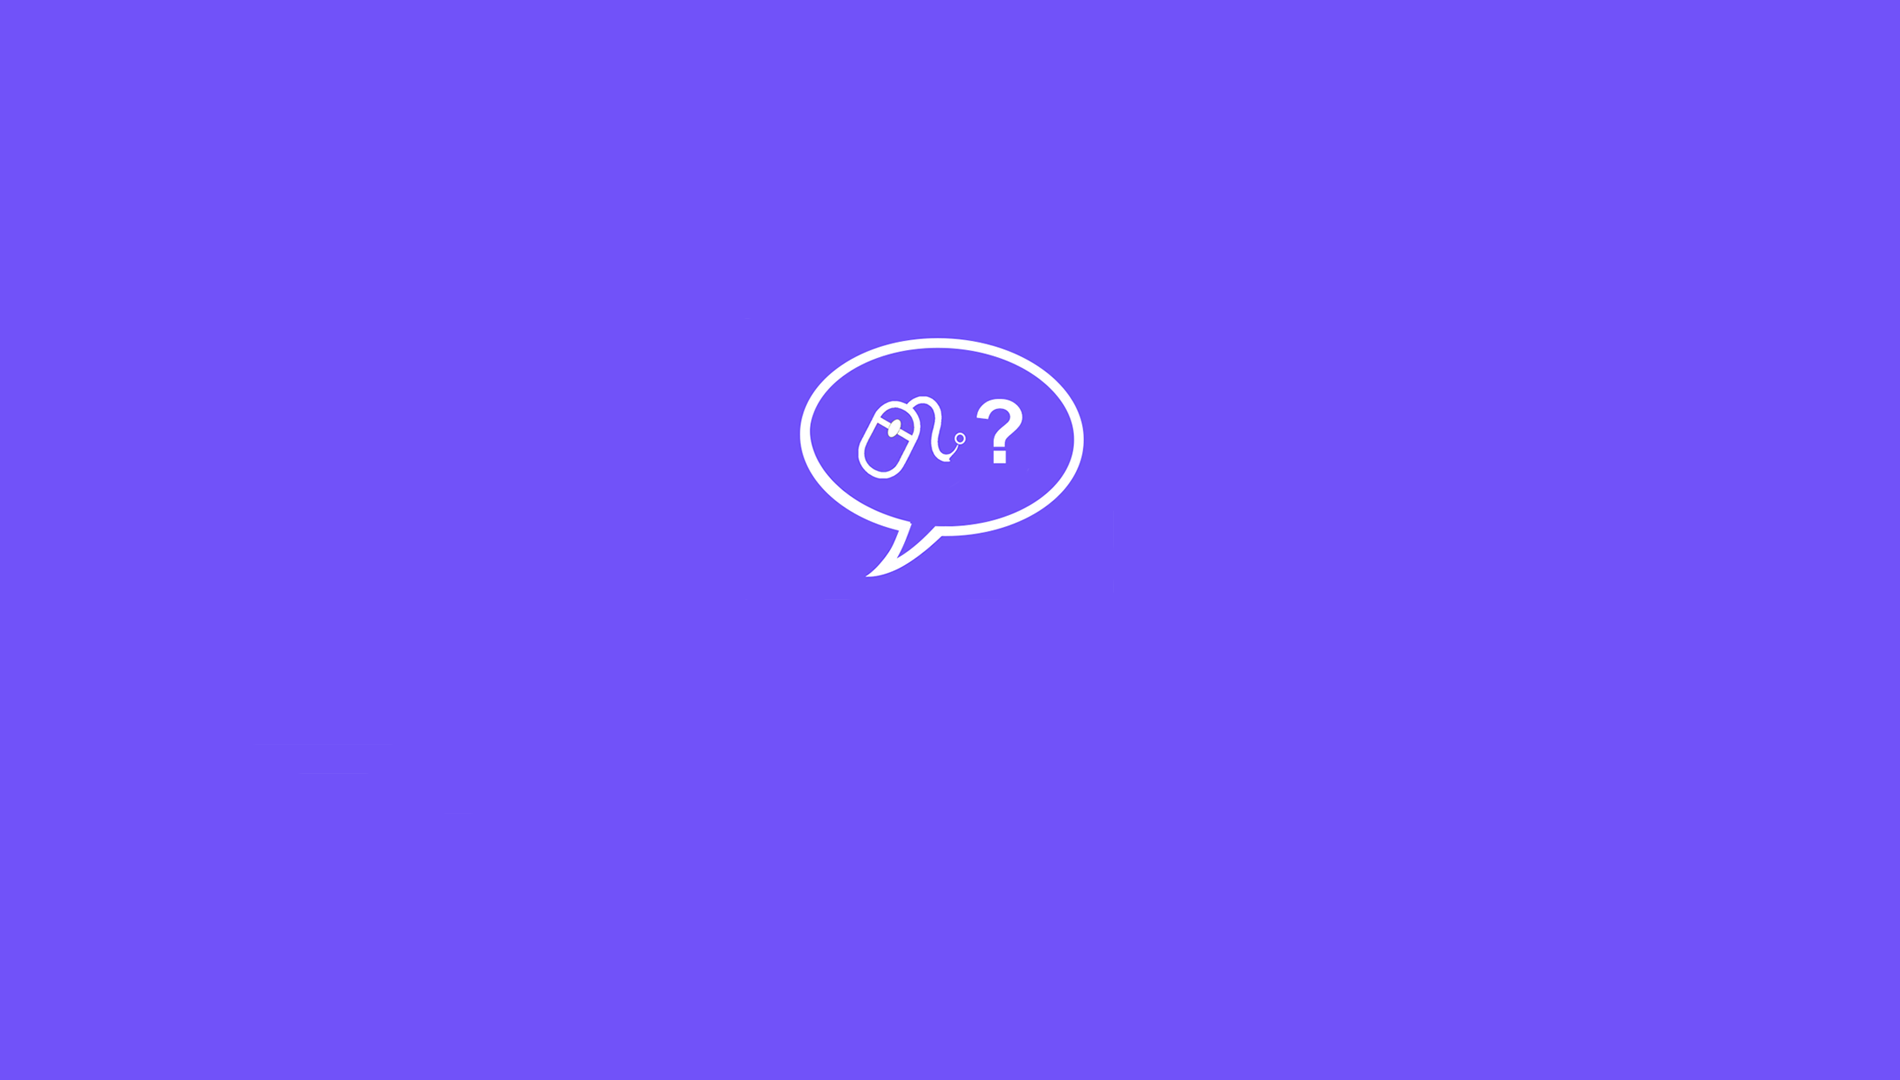
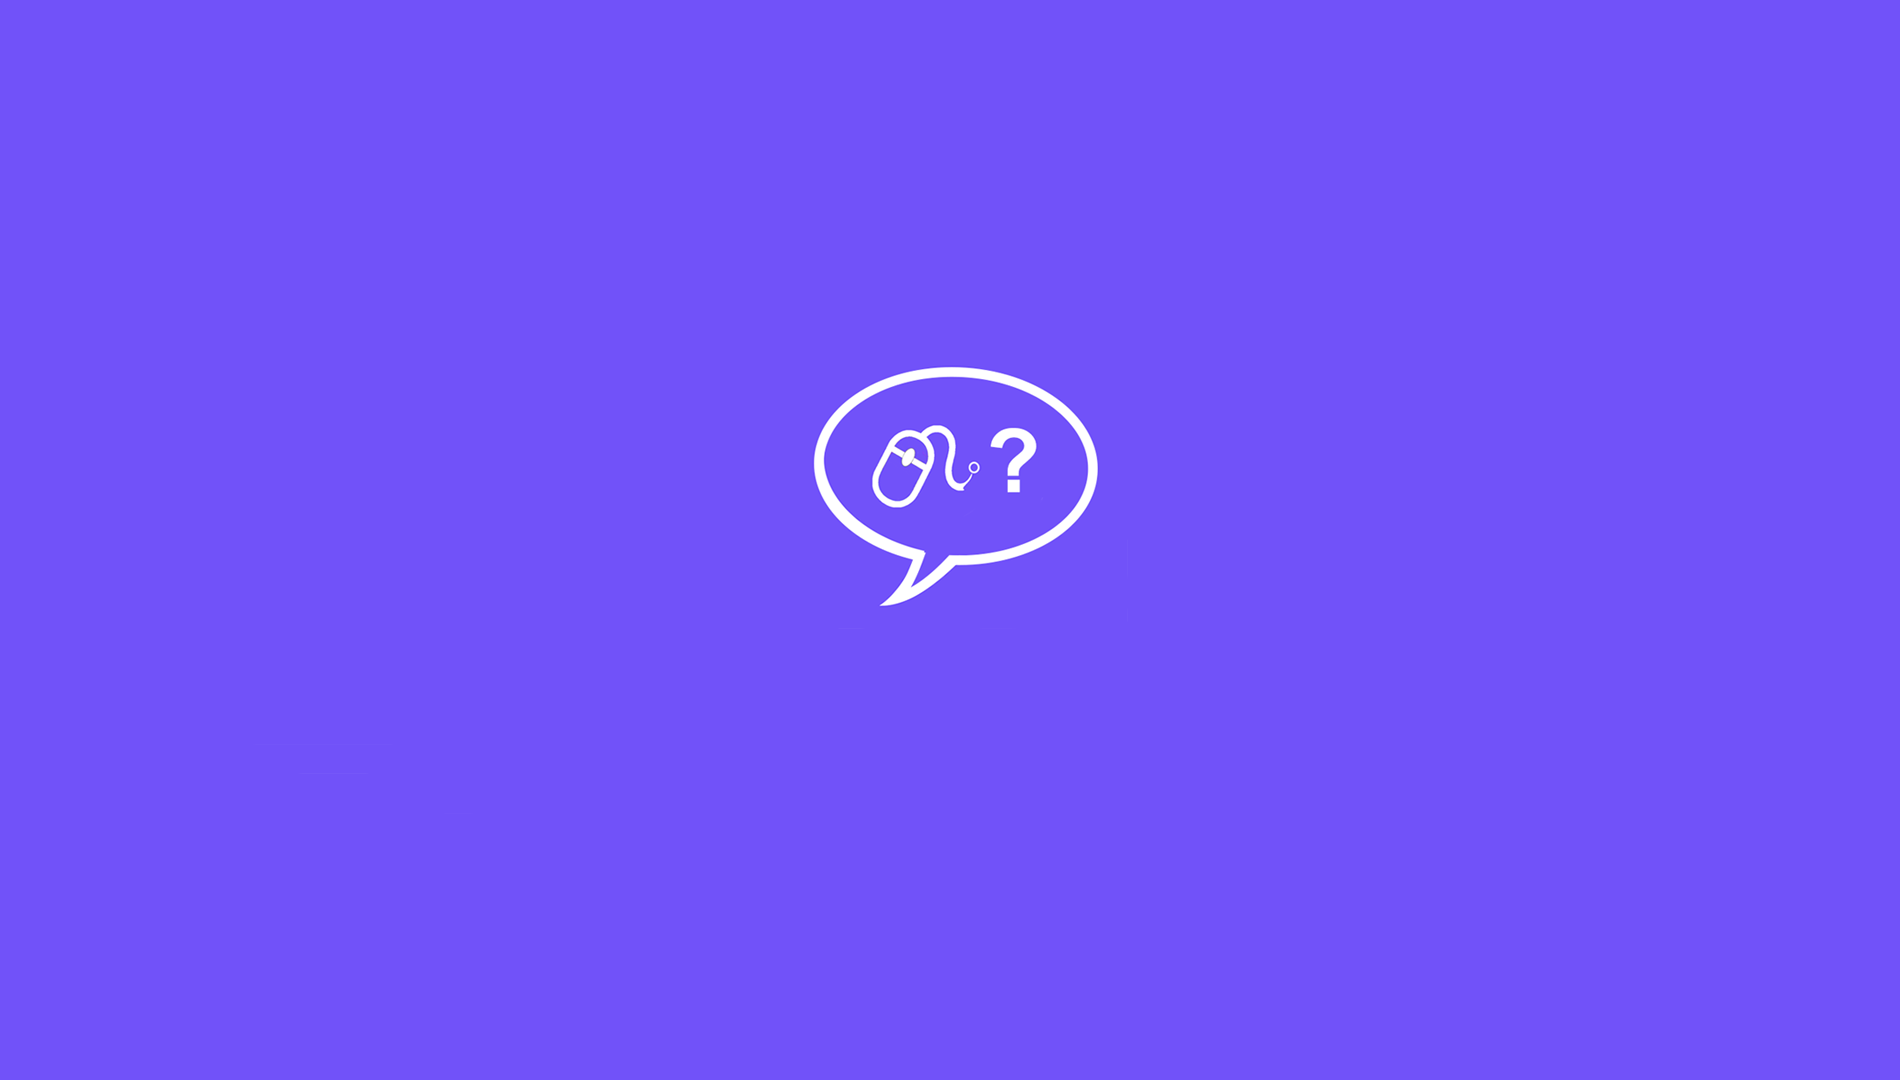
Aggiornamento

Changed region(s): [[0.4037, 0.3056, 0.59, 0.5806]]

diff --git a/eventi/index.html b/eventi/index.html
@@ -9,7 +9,7 @@
     <meta name="description" content="">
     <meta name="author" content="">
 
-    <title>Servizi - Informatica sarà lei!</title>
+    <title>Eventi - Informatica sarà lei!</title>
 
     <!-- Bootstrap Core CSS -->
     <link href="../css/bootstrap.min.css" rel="stylesheet">
@@ -46,47 +46,14 @@
     <!-- Page Heading/Breadcrumbs -->
     <div class="row">
         <div class="col-lg-12">
-            <h1 class="page-header">Servizi
+            <h1 class="page-header">Eventi
                 <small>Sottotitolo</small>
             </h1>
             <ol class="breadcrumb">
                 <li><a href="../index.html">Home</a>
                 </li>
-                <li class="active">Servizi</li>
+                <li class="active">Eventi</li>
             </ol>
-        </div>
-    </div>
-    <!-- /.row -->
-    
-    <hr>
-    
-    <!-- Marketing Icons Section -->
-    <div class="row">
-        <div class="col-md-6">
-            <div class="panel panel-default">
-                <div class="panel-heading">
-                    <h4><i class="fa fa-fw fa-users"></i> Agenda &amp; Eventi</h4>
-                </div>
-                <div class="panel-body">
-                    <p>Lorem ipsum dolor sit amet, consectetur adipisicing elit. Itaque, optio corporis quae nulla
-                        aspernatur in alias at numquam rerum ea excepturi expedita tenetur assumenda voluptatibus
-                        eveniet incidunt dicta nostrum quod?</p>
-                    <a href="#" class="btn btn-default">Accedi al Forum!</a>
-                </div>
-            </div>
-        </div>
-        <div class="col-md-6">
-            <div class="panel panel-default">
-                <div class="panel-heading">
-                    <h4><i class="fa fa-fw fa-graduation-cap"></i> RSS &amp; News</h4>
-                </div>
-                <div class="panel-body">
-                    <p>Lorem ipsum dolor sit amet, consectetur adipisicing elit. Itaque, optio corporis quae nulla
-                        aspernatur in alias at numquam rerum ea excepturi expedita tenetur assumenda voluptatibus
-                        eveniet incidunt dicta nostrum quod?</p>
-                    <a href="#" class="btn btn-default">Leggi le News!</a>
-                </div>
-            </div>
         </div>
     </div>
     <!-- /.row -->

diff --git a/lavoro/index.html b/lavoro/index.html
@@ -9,7 +9,7 @@
     <meta name="description" content="">
     <meta name="author" content="">
 
-    <title>Servizi - Informatica sarà lei!</title>
+    <title>Lavoro - Informatica sarà lei!</title>
 
     <!-- Bootstrap Core CSS -->
     <link href="../css/bootstrap.min.css" rel="stylesheet">
@@ -46,47 +46,14 @@
     <!-- Page Heading/Breadcrumbs -->
     <div class="row">
         <div class="col-lg-12">
-            <h1 class="page-header">Servizi
+            <h1 class="page-header">Lavoro
                 <small>Sottotitolo</small>
             </h1>
             <ol class="breadcrumb">
                 <li><a href="../index.html">Home</a>
                 </li>
-                <li class="active">Servizi</li>
+                <li class="active">Lavoro</li>
             </ol>
-        </div>
-    </div>
-    <!-- /.row -->
-    
-    <hr>
-    
-    <!-- Marketing Icons Section -->
-    <div class="row">
-        <div class="col-md-6">
-            <div class="panel panel-default">
-                <div class="panel-heading">
-                    <h4><i class="fa fa-fw fa-users"></i> Agenda &amp; Eventi</h4>
-                </div>
-                <div class="panel-body">
-                    <p>Lorem ipsum dolor sit amet, consectetur adipisicing elit. Itaque, optio corporis quae nulla
-                        aspernatur in alias at numquam rerum ea excepturi expedita tenetur assumenda voluptatibus
-                        eveniet incidunt dicta nostrum quod?</p>
-                    <a href="#" class="btn btn-default">Accedi al Forum!</a>
-                </div>
-            </div>
-        </div>
-        <div class="col-md-6">
-            <div class="panel panel-default">
-                <div class="panel-heading">
-                    <h4><i class="fa fa-fw fa-graduation-cap"></i> RSS &amp; News</h4>
-                </div>
-                <div class="panel-body">
-                    <p>Lorem ipsum dolor sit amet, consectetur adipisicing elit. Itaque, optio corporis quae nulla
-                        aspernatur in alias at numquam rerum ea excepturi expedita tenetur assumenda voluptatibus
-                        eveniet incidunt dicta nostrum quod?</p>
-                    <a href="#" class="btn btn-default">Leggi le News!</a>
-                </div>
-            </div>
         </div>
     </div>
     <!-- /.row -->

diff --git a/navigation_bar.html b/navigation_bar.html
@@ -10,7 +10,7 @@
                 <span class="icon-bar"></span>
                 <span class="icon-bar"></span>
             </button>
-            <a href="/index.html"><img src="/img/logo.png" height="45" width="196" class="logo"
+            <a href="/index.html"><img src="/img/logo_pad.png" height="50" width="200" class="logo"
                                       alt="Sappiamo che l'immagine non si vede ed è fatto apposta."></a>
         </div>
         <!-- <img src="img/logo.png" alt="logo" height="50" width="200"> -->

diff --git a/index.html b/index.html
@@ -170,7 +170,7 @@
             <br>
 
             <div class="col-md-4">
-                <a class="btn btn-lg btn-default btn-block" href="#">Accedi al gioco!</a>
+                <a class="btn btn-lg btn-default btn-block" href="/game/">Accedi al gioco!</a>
             </div>
             <br>
         </div>
